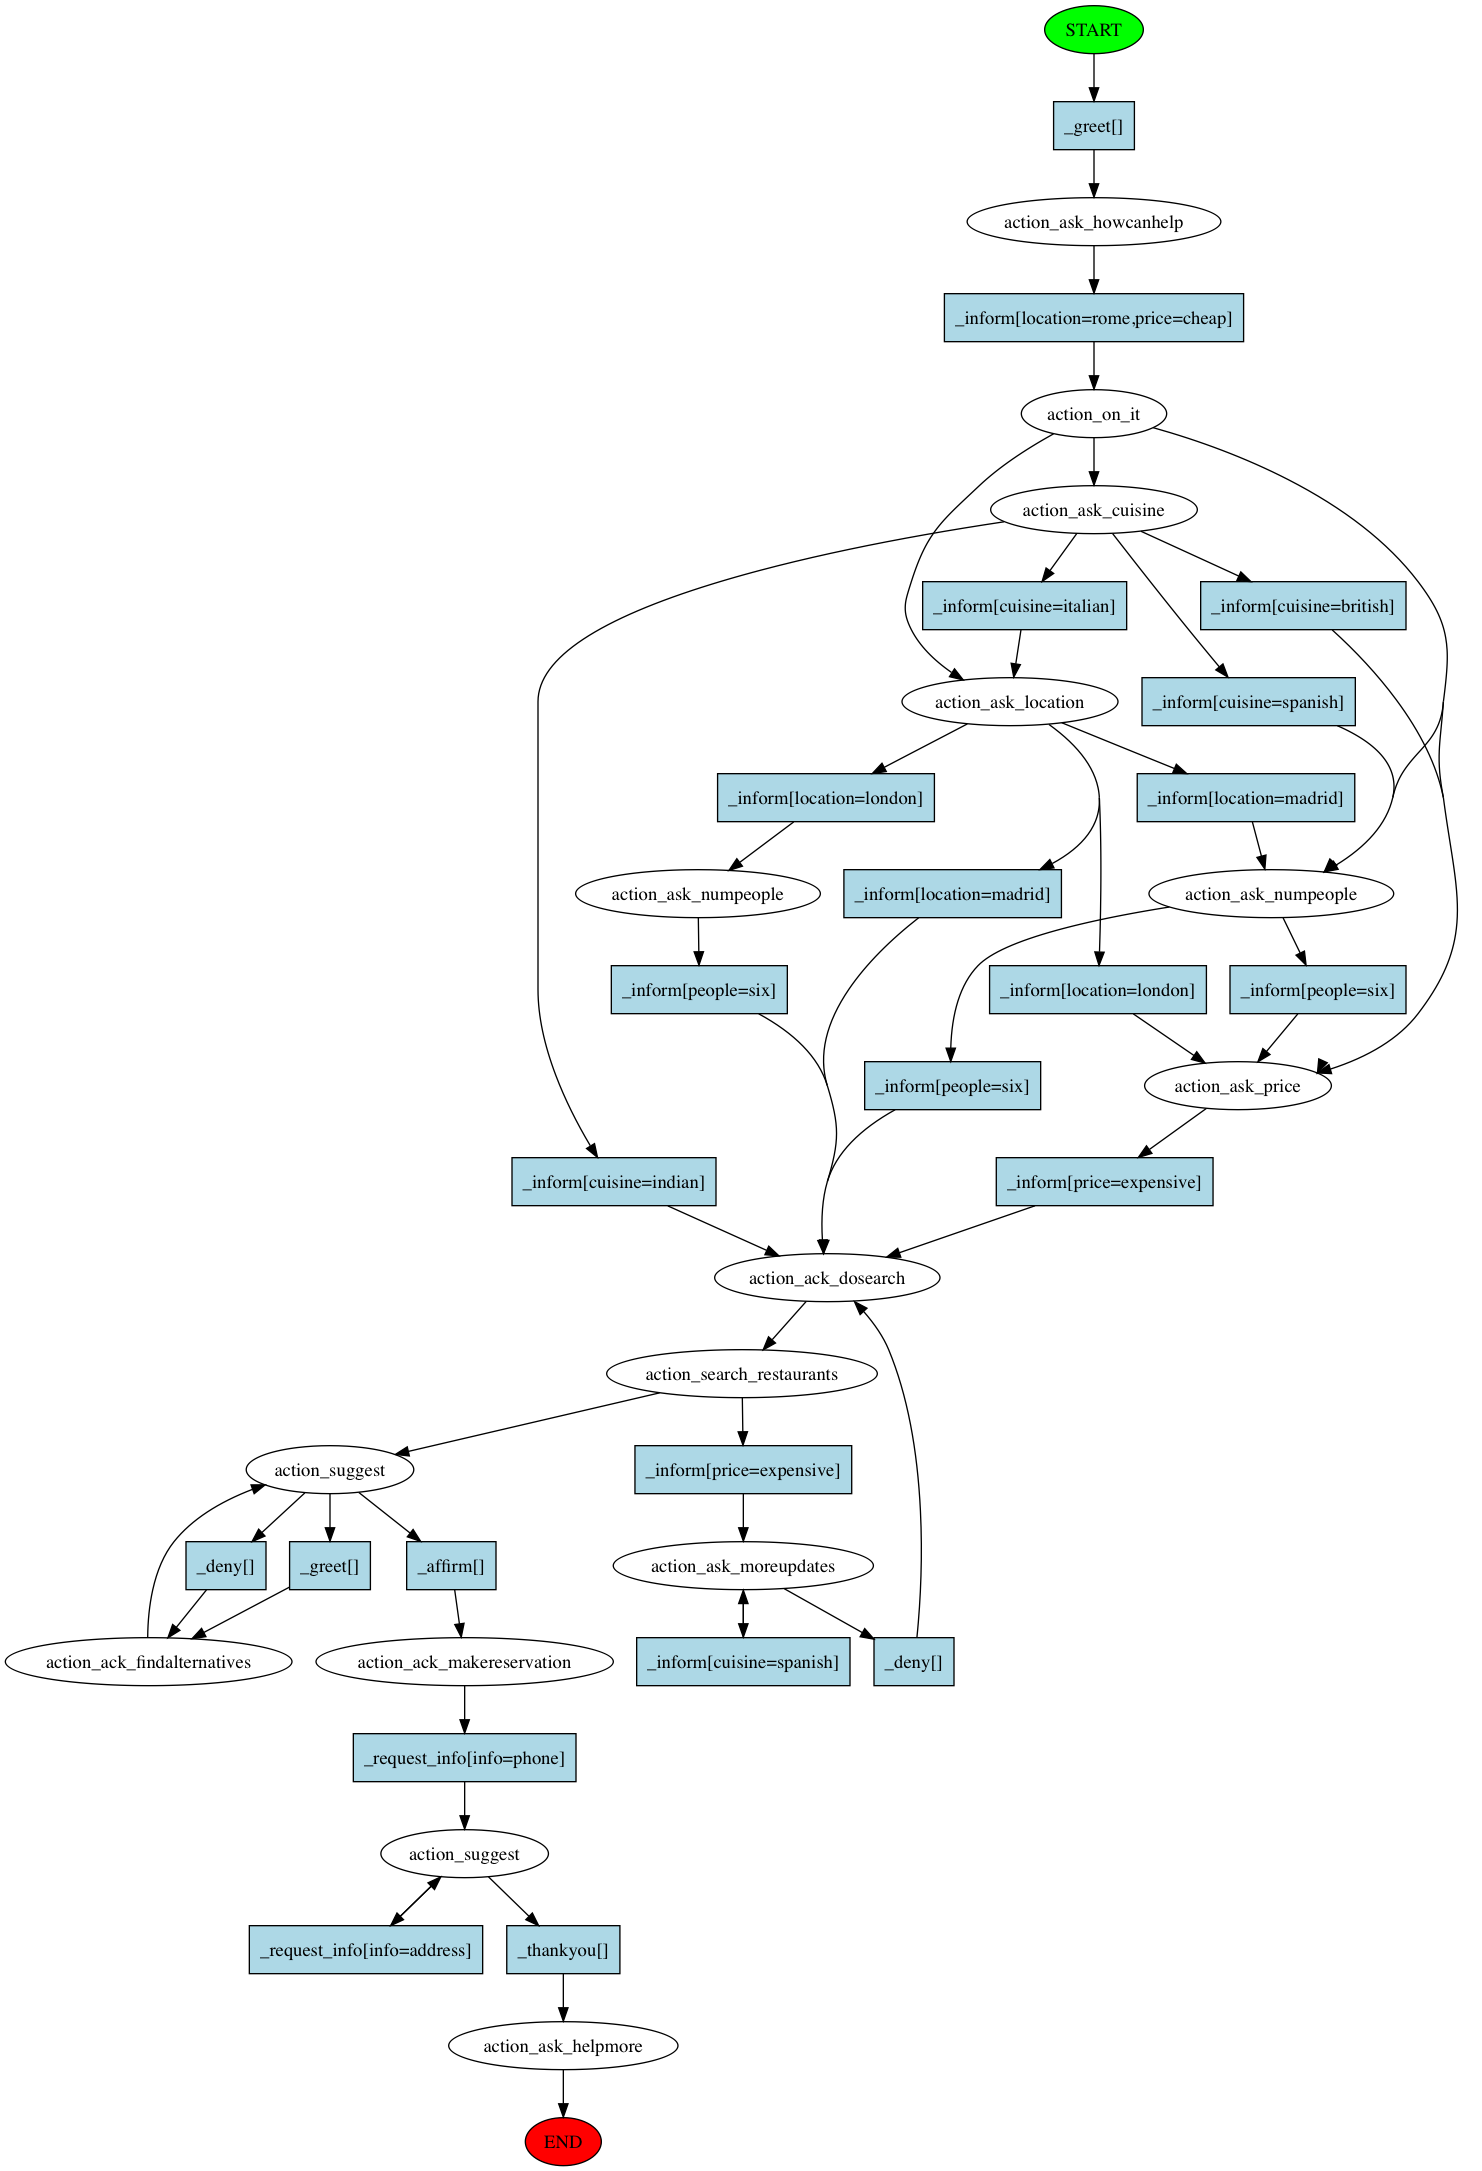
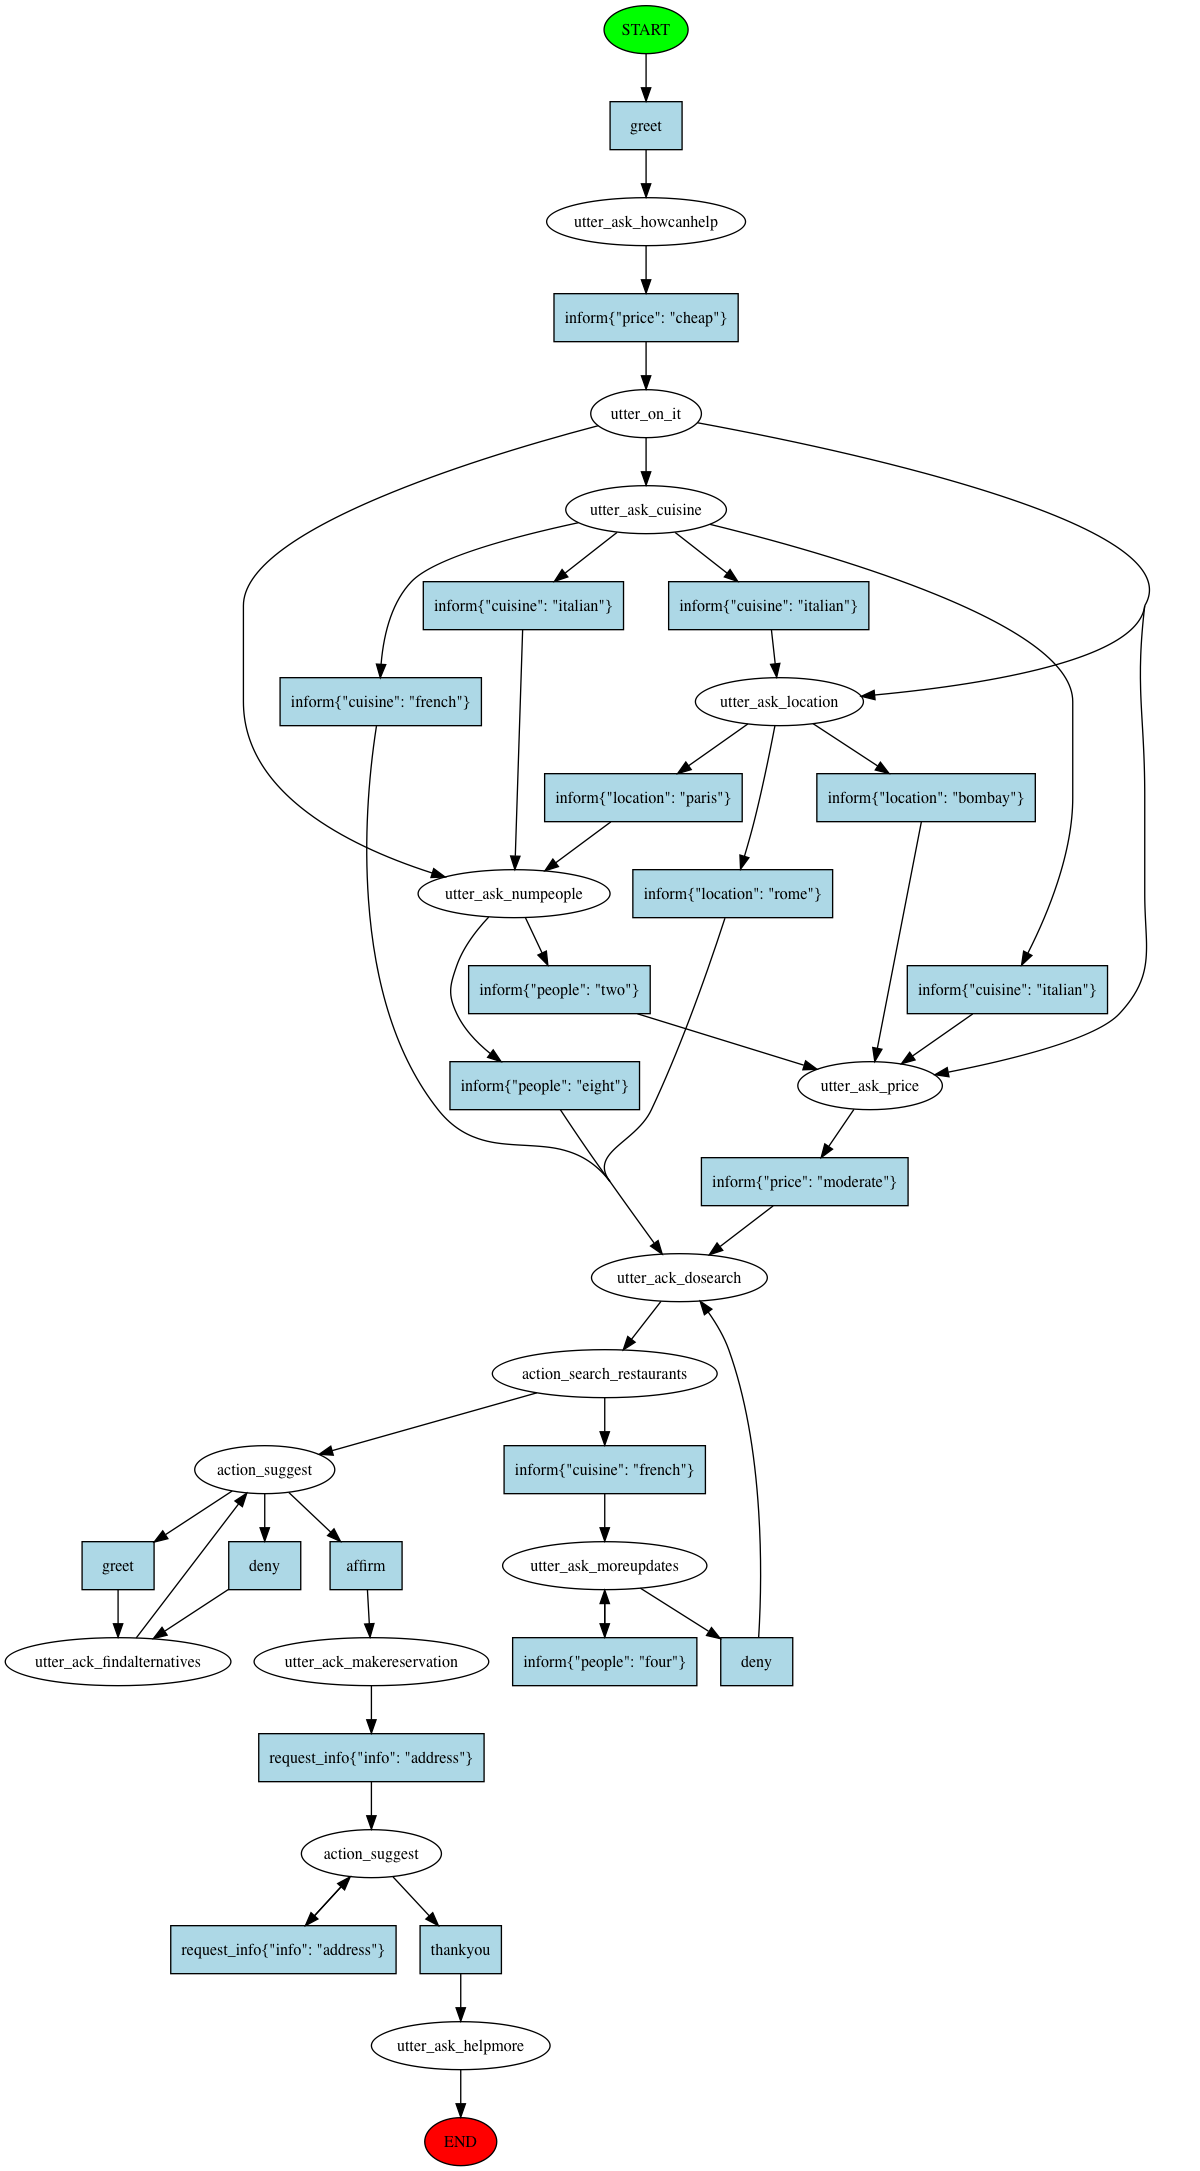
fixed tests

Changed region(s): [[0.0308, 0.0, 0.9867, 1.0]]

diff --git a/rasa_core/training/visualization.py b/rasa_core/training/visualization.py
@@ -6,14 +6,15 @@ from __future__ import unicode_literals
 import random
 from collections import defaultdict, deque
 
-from typing import Any, Text, List, Dict
+from typing import Any, Text, List, Dict, Optional
 
 from rasa_core.actions.action import ACTION_LISTEN_NAME
+from rasa_core.domain import Domain
 from rasa_core.events import UserUttered, ActionExecuted
 from rasa_core.featurizers import BinaryFeaturizer
-from rasa_core.interpreter import RegexInterpreter
+from rasa_core.interpreter import RegexInterpreter, NaturalLanguageInterpreter
 from rasa_core.training.generator import TrainingsDataGenerator
-from rasa_core.training.structures import StoryGraph
+from rasa_core.training.structures import StoryGraph, StoryStep
 from rasa_nlu.training_data import TrainingData
 
 EDGE_NONE_LABEL = "NONE"
@@ -167,12 +168,14 @@ def _merge_equivalent_nodes(G, max_history):
                             _nodes_are_equivalent(G, i, j, max_history):
                         changed = True
                         # moves all outgoing edges to the other node
-                        j_outgoing_edges = G.copy().out_edges(j, keys=True, data=True)
+                        j_outgoing_edges = list(G.out_edges(j, keys=True,
+                                                            data=True))
                         for _, succ_node, k, d in j_outgoing_edges:
                             _add_edge(G, i, succ_node, k, d.get("label"))
                             G.remove_edge(j, succ_node)
                         # moves all incoming edges to the other node
-                        j_incoming_edges = G.copy().in_edges(j, keys=True, data=True)
+                        j_incoming_edges = list(G.in_edges(j, keys=True,
+                                                           data=True))
                         for prev_node, _, k, d in j_incoming_edges:
                             _add_edge(G, prev_node, i, k, d.get("label"))
                             G.remove_edge(prev_node, j)
@@ -194,7 +197,8 @@ def _replace_edge_labels_with_nodes(G, next_id, interpreter, nlu_training_data,
     else:
         message_generator = None
 
-    for s, e, k, d in G.copy().edges(keys=True, data=True):
+    edges = list(G.edges(keys=True, data=True))
+    for s, e, k, d in edges:
         if k != EDGE_NONE_LABEL:
             if message_generator and d.get("label", k) is not None:
                 parsed_info = interpreter.parse(d.get("label", k))
@@ -220,13 +224,16 @@ def _persist_graph(G, output_file):
     A.draw(output_file)
 
 
-def visualize_stories(story_steps,
-                      domain,
-                      output_file=None,
-                      max_history=2,
-                      interpreter=RegexInterpreter(),
-                      nlu_training_data=None,
-                      fontsize=12):
+def visualize_stories(
+        story_steps,  # type: List[StoryStep]
+        domain,  # type: Domain
+        output_file,  # type: Optional[Text]
+        max_history,  # type: int
+        interpreter=RegexInterpreter(),  # type: NaturalLanguageInterpreter
+        nlu_training_data=None,  # type: Optional[TrainingData]
+        should_merge_nodes=True,  # type: bool
+        fontsize=12  # type: int
+):
     """Given a set of stories, generates a graph visualizing the flows in the
     stories.
 
@@ -300,7 +307,8 @@ def visualize_stories(story_steps,
         else:
             G.add_edge(current_node, -1, key=EDGE_NONE_LABEL)
 
-    _merge_equivalent_nodes(G, max_history)
+    if should_merge_nodes:
+        _merge_equivalent_nodes(G, max_history)
     _replace_edge_labels_with_nodes(G, next_node_idx, interpreter,
                                     nlu_training_data, fontsize)
 

diff --git a/rasa_core/agent.py b/rasa_core/agent.py
@@ -184,8 +184,8 @@ class Agent(object):
 
     def visualize(self,
                   filename,
-                  output_file=None,
-                  max_history=2,
+                  output_file,
+                  max_history,
                   nlu_training_data=None,
                   fontsize=12
                   ):
@@ -193,9 +193,8 @@ class Agent(object):
         from rasa_core.training import StoryFileReader
 
         story_steps = StoryFileReader.read_from_file(filename, self.domain)
-        visualize_stories(story_steps, self.domain, output_file,
-                          max_history, self.interpreter, nlu_training_data,
-                          fontsize)
+        visualize_stories(story_steps, self.domain, output_file, max_history,
+                          self.interpreter, nlu_training_data, fontsize)
 
     def _ensure_agent_is_prepared(self):
         # type: () -> None

diff --git a/tests/test_training.py b/tests/test_training.py
@@ -20,8 +20,11 @@ def test_story_visualization(default_domain):
     story_steps = StoryFileReader.read_from_file(
             "data/test_stories/stories.md", default_domain,
             interpreter=RegexInterpreter())
-    generated_graph = visualize_stories(story_steps, default_domain)
-    assert len(generated_graph.nodes()) == 22
+    generated_graph = visualize_stories(story_steps, default_domain,
+                                        output_file=None,
+                                        max_history=3,
+                                        should_merge_nodes=False)
+    assert len(generated_graph.nodes()) == 33
 
 
 def test_training_script(tmpdir):

diff --git a/rasa_core/visualize.py b/rasa_core/visualize.py
@@ -34,7 +34,7 @@ def create_argument_parser():
                         type=str,
                         help="filename of the output path, e.g. 'graph.png")
     parser.add_argument('-m', '--max_history',
-                        default=2,
+                        required=True,
                         type=int,
                         help="max history to consider when merging "
                              "paths in the output graph")

diff --git a/examples/concertbot/visualize.py b/examples/concertbot/visualize.py
@@ -11,4 +11,4 @@ if __name__ == '__main__':
     agent = Agent("concert_domain.yml",
                   policies=[MemoizationPolicy(), KerasPolicy()])
 
-    agent.visualize("data/stories.md", "graph.png", max_history=2)
+    agent.visualize("data/stories.md", output_file="graph.png", max_history=2)

diff --git a/setup.py b/setup.py
@@ -39,6 +39,7 @@ install_requires = [
     'networkx',
     'pymessenger',
     'pykwalify',
+    'coloredlogs',
 ]
 
 extras_requires = {
